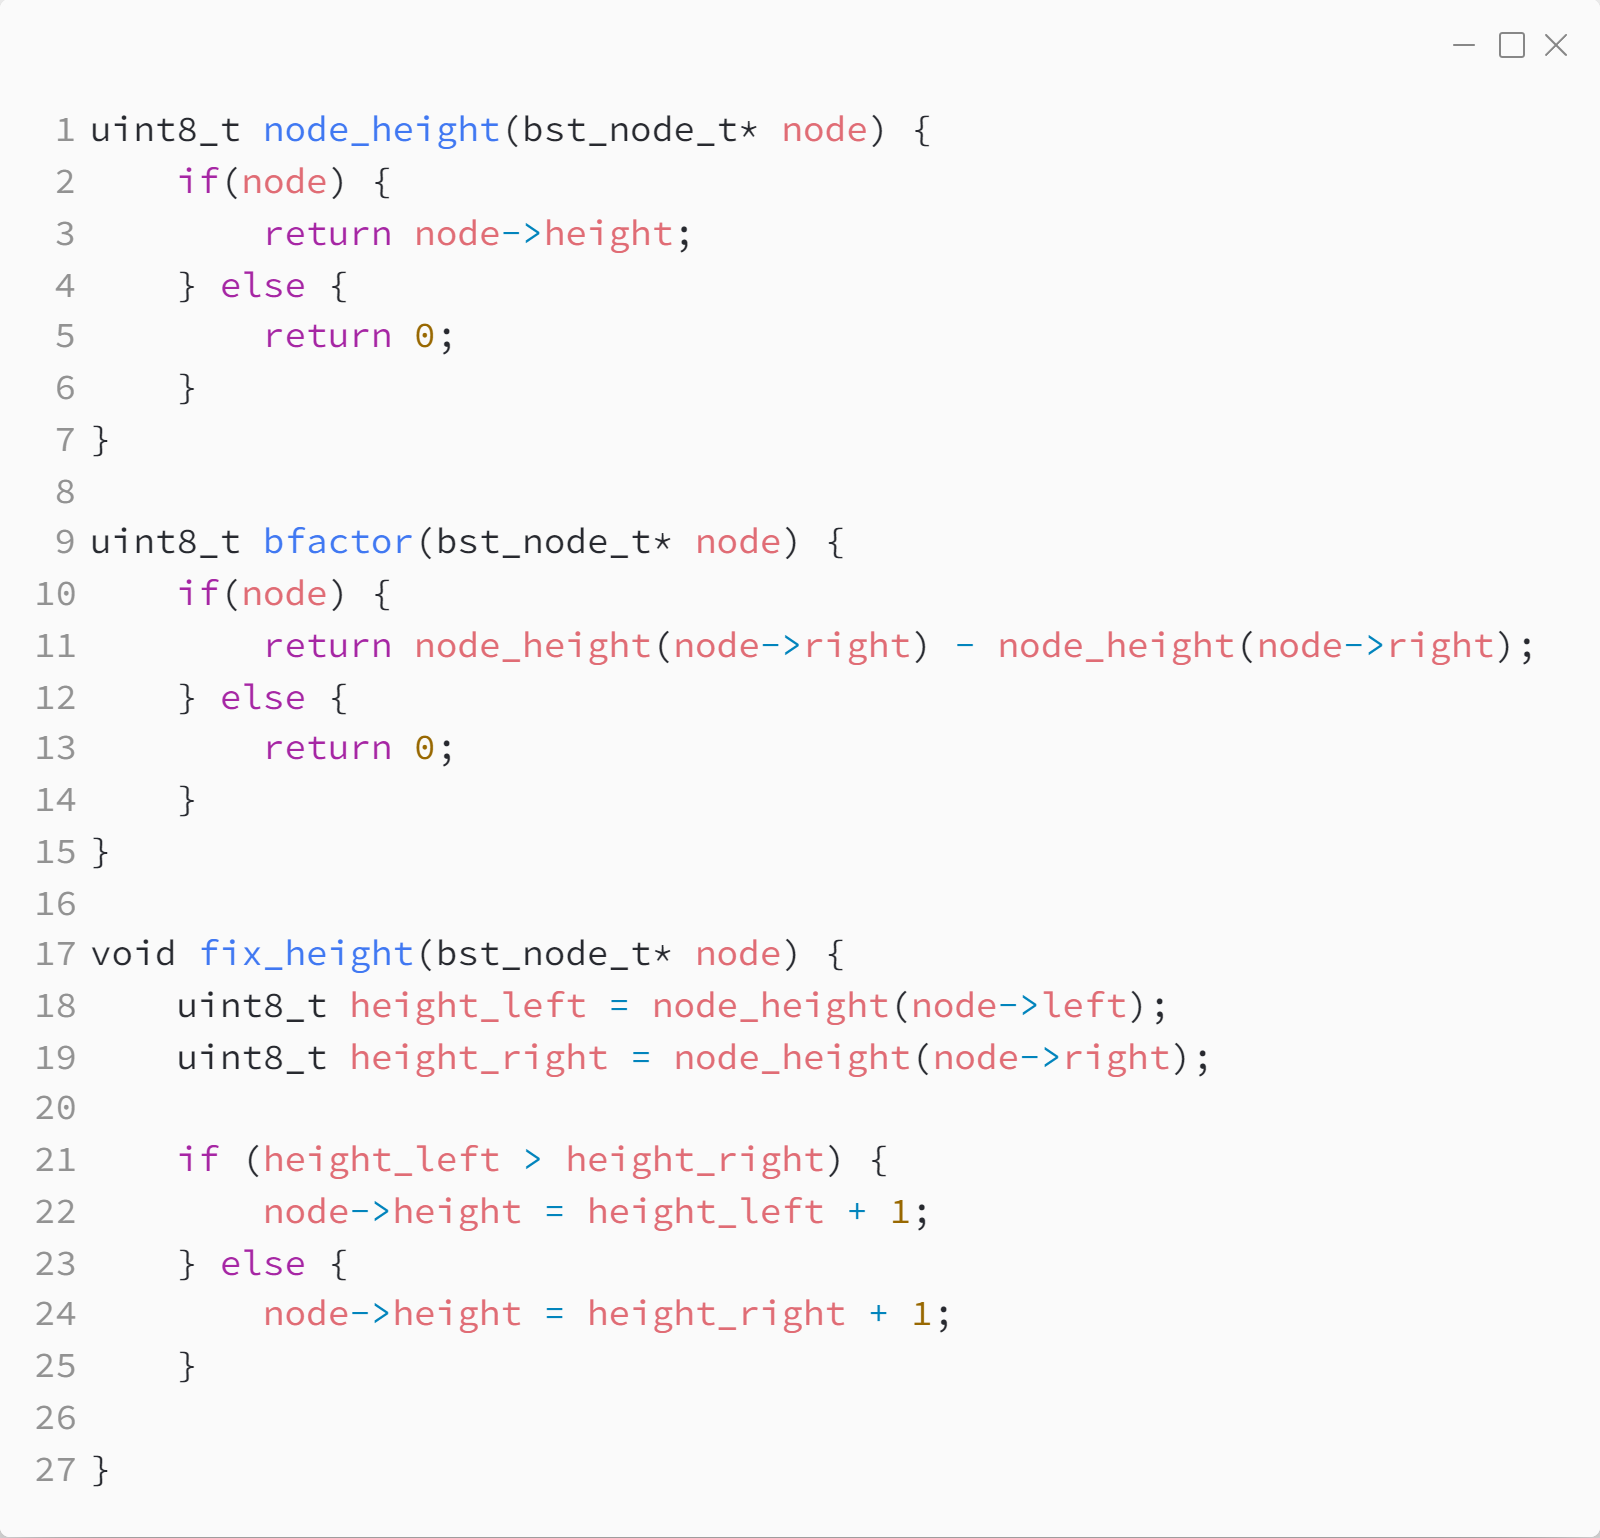
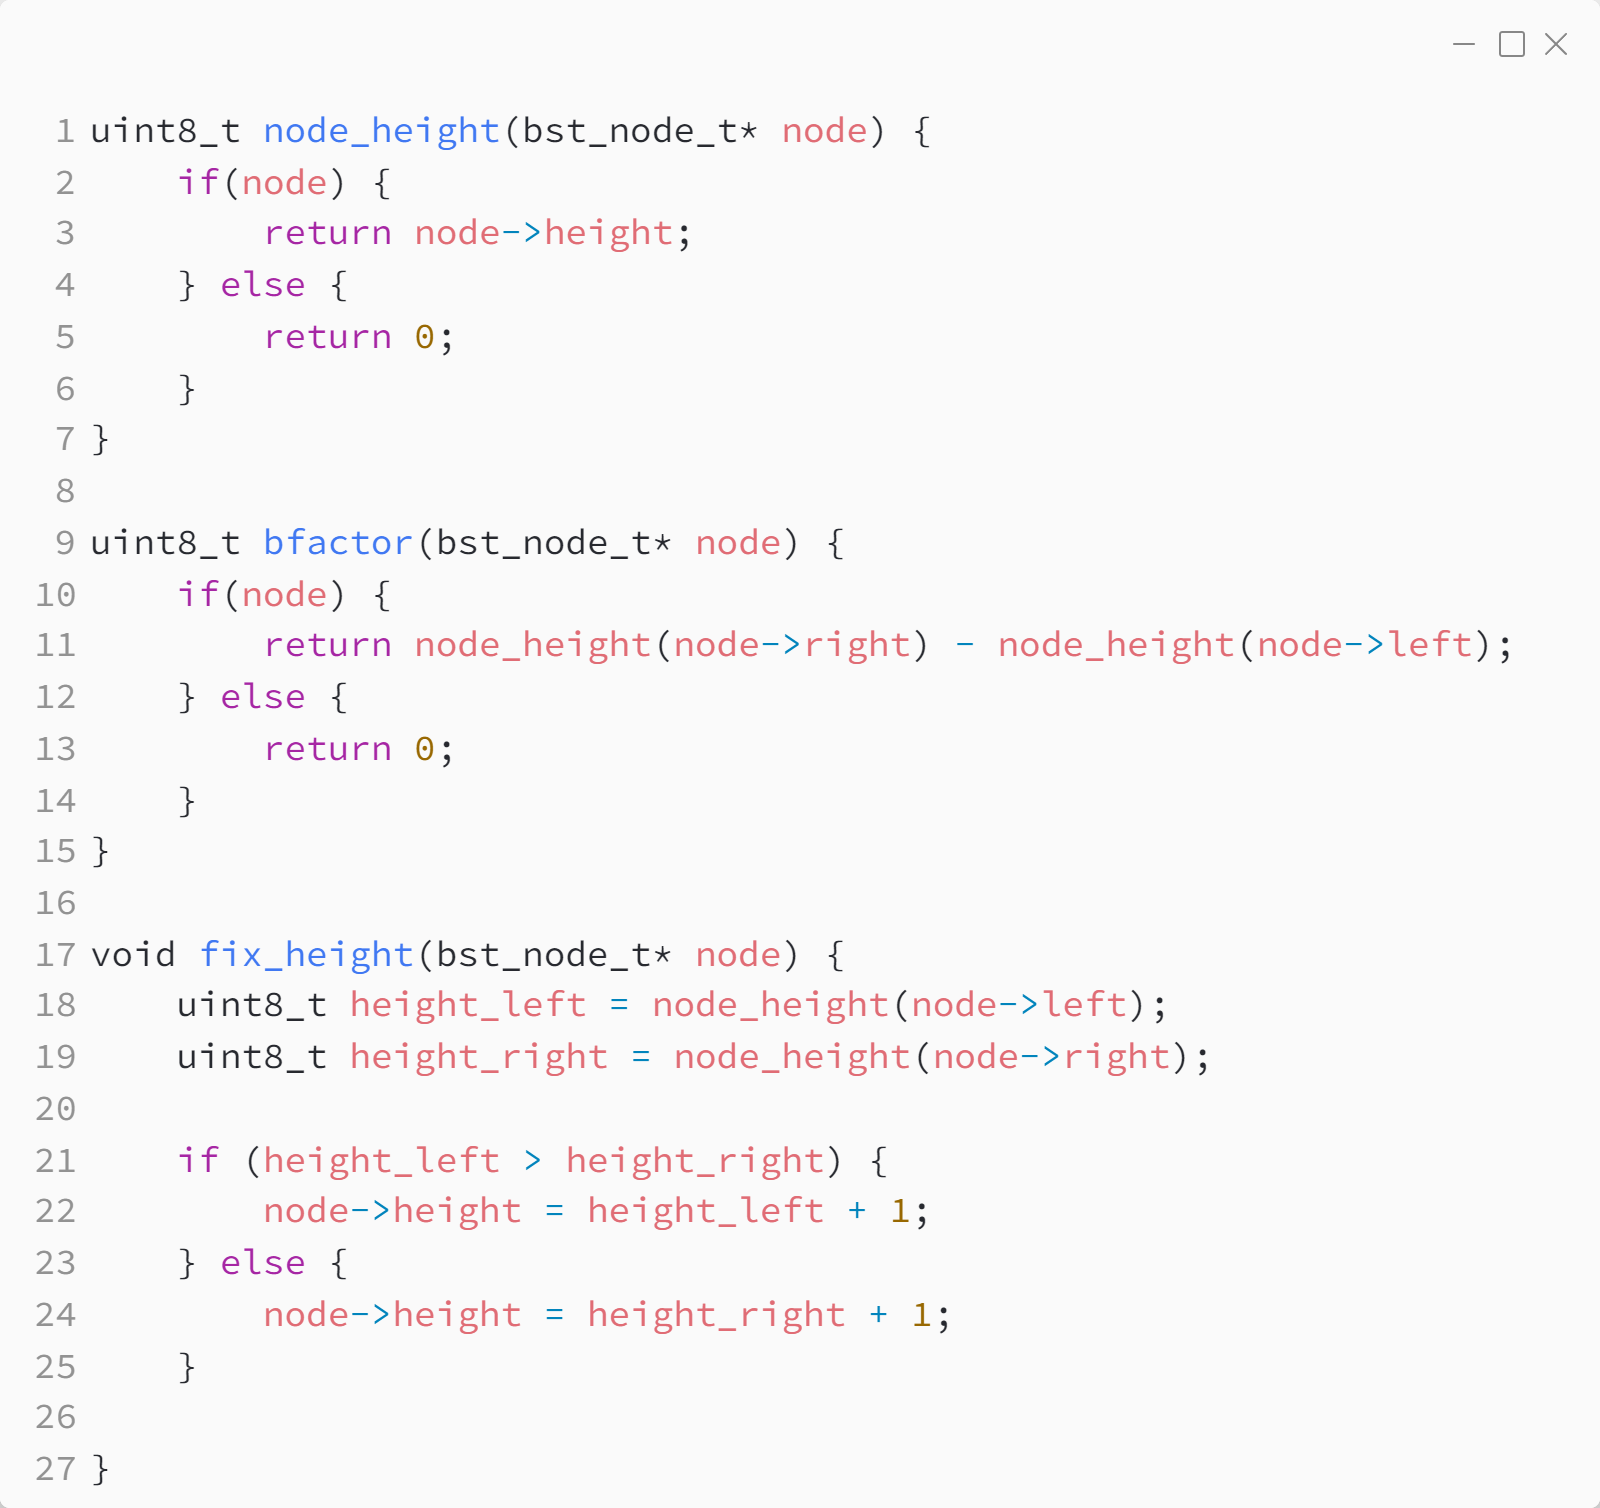
fix typo

diff --git a/8_bst/practice/src/bst_avl.c b/8_bst/practice/src/bst_avl.c
@@ -50,7 +50,7 @@ uint8_t node_height(bst_node_t* node) {
 
 uint8_t bfactor(bst_node_t* node) {
     if(node) {
-        return node_height(node->right) - node_height(node->right);
+        return node_height(node->right) - node_height(node->left);
     } else {
         return 0;
     }
